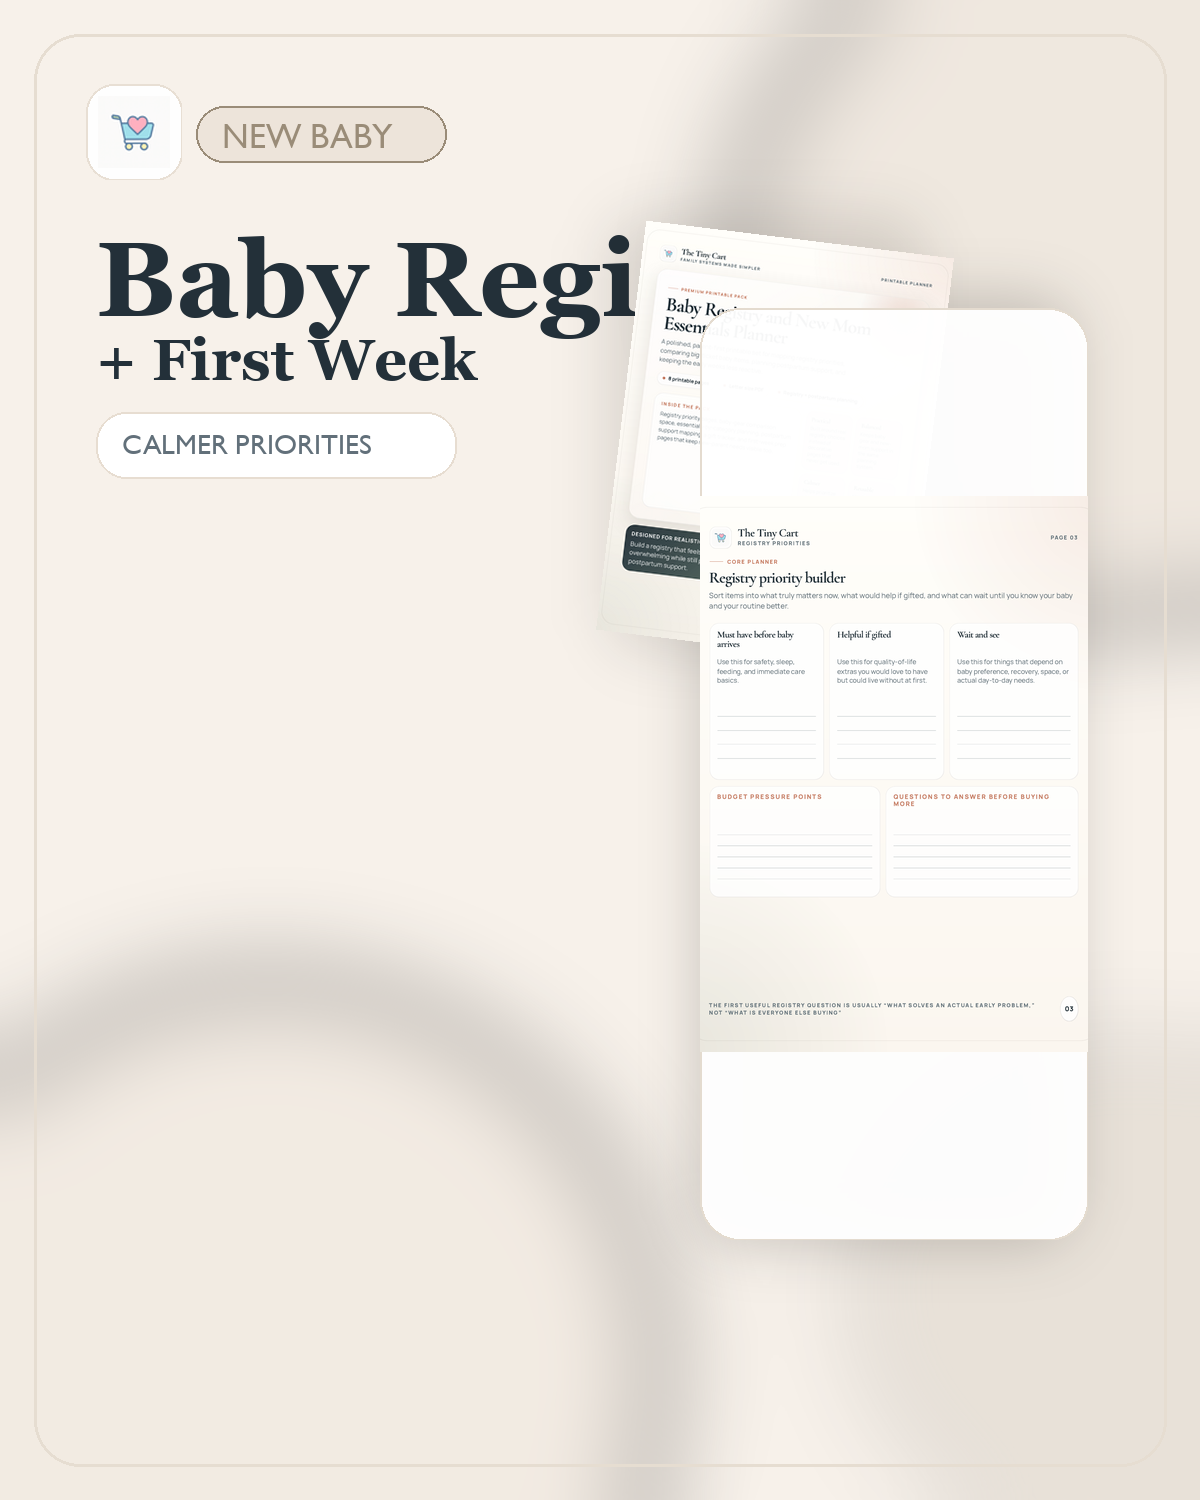
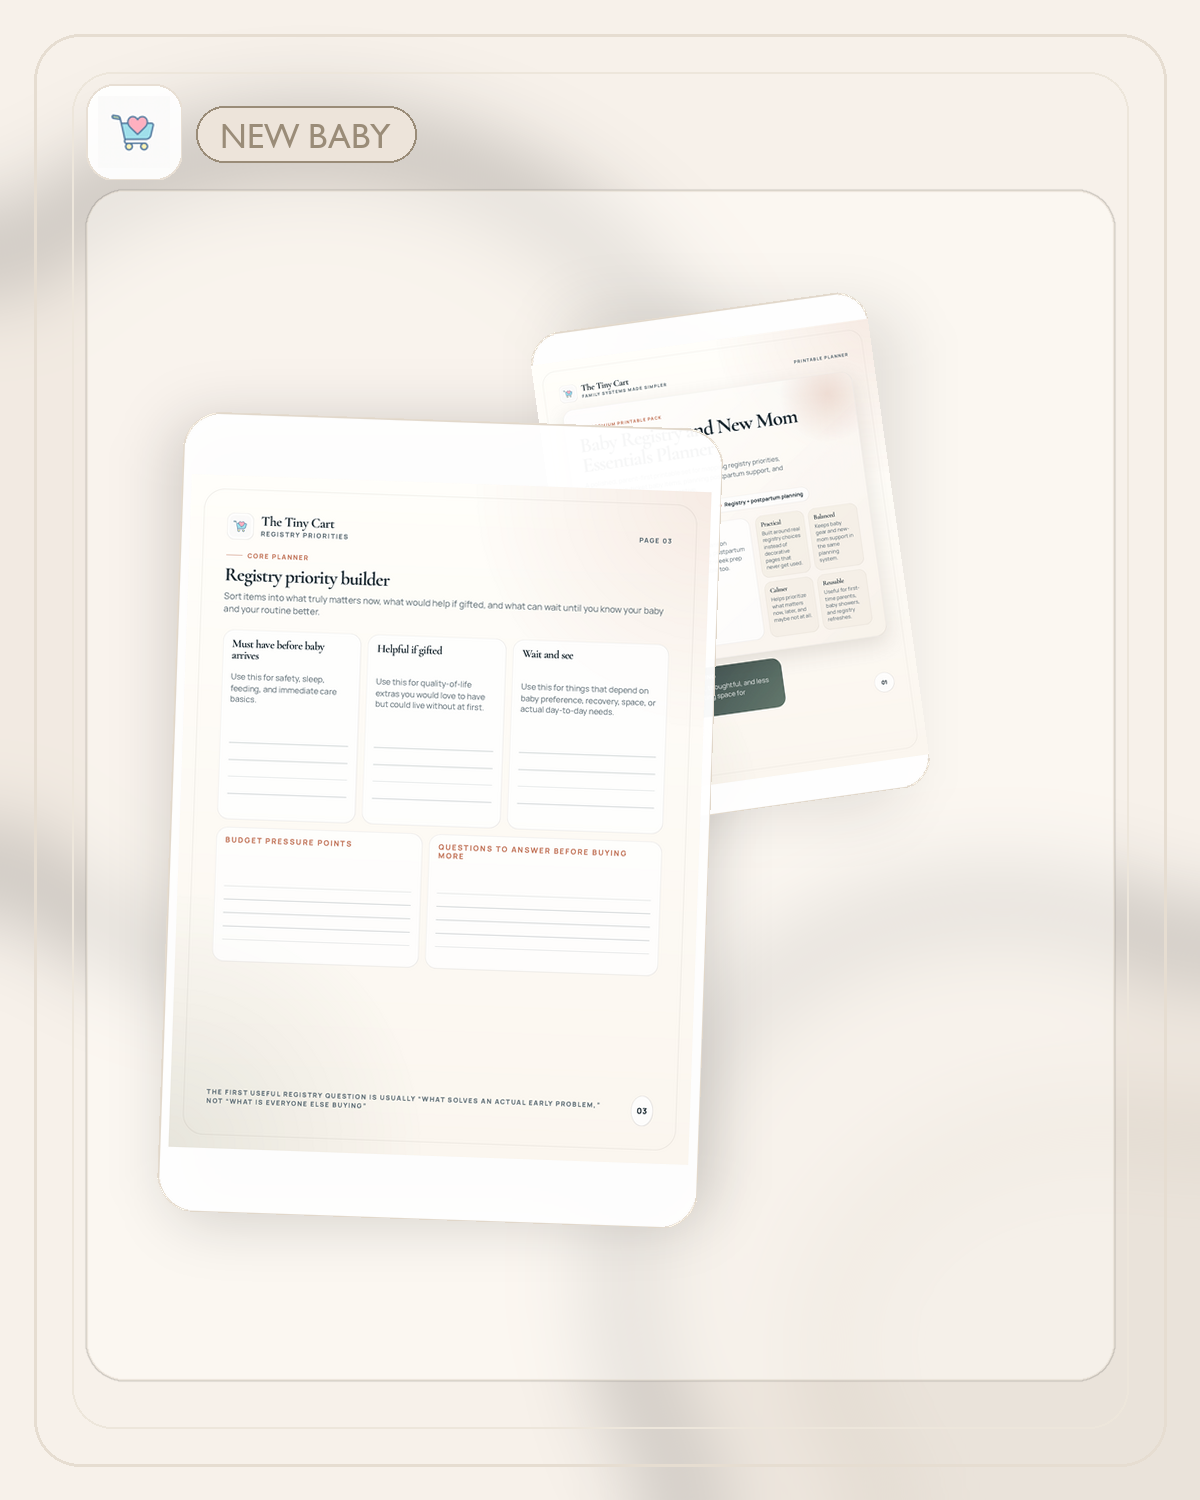
Refine printable card thumbnails

diff --git a/scripts/build_printable_thumbnails.py b/scripts/build_printable_thumbnails.py
@@ -18,58 +18,53 @@ SIZE = (1200, 1500)
 PRODUCTS = [
     {
         "slug": "family-meal-planner",
-        "category": "MEAL PLANNING",
-        "title": ["Family Meals", "& Lunches"],
-        "subtitle": "calm weekly system",
+        "label": "MEAL PLANNER",
         "accent": "#cb7e62",
         "accent_soft": "#f0d8d2",
         "glow": "#dccfc3",
         "preview_main": "preview-weekly-planner.png",
         "preview_back": "preview-overview.png",
+        "layout": "right",
     },
     {
         "slug": "kids-routine-chart",
-        "category": "ROUTINES",
-        "title": ["Kids Routines", "& Responsibilities"],
-        "subtitle": "clearer daily flow",
+        "label": "ROUTINES",
         "accent": "#71816d",
         "accent_soft": "#dce5da",
         "glow": "#d8ddd2",
         "preview_main": "preview-morning-flow.png",
         "preview_back": "preview-overview.png",
+        "layout": "left",
     },
     {
         "slug": "playroom-organization-labels",
-        "category": "ORGANIZATION",
-        "title": ["Playroom Labels", "+ Rotation"],
-        "subtitle": "simpler cleanup",
+        "label": "ORGANIZE",
         "accent": "#c6a06a",
         "accent_soft": "#efe0c8",
         "glow": "#e5dbc8",
         "preview_main": "preview-category-grid.png",
         "preview_back": "preview-overview.png",
+        "layout": "center",
     },
     {
         "slug": "lunchbox-notes",
-        "category": "LUNCHBOX NOTES",
-        "title": ["Lunchbox Notes", "+ Joke Cards"],
-        "subtitle": "warmer school lunches",
+        "label": "NOTES",
         "accent": "#c77063",
         "accent_soft": "#f4ddd8",
         "glow": "#e6d7d0",
         "preview_main": "preview-encouragement-notes.png",
         "preview_back": "preview-overview.png",
+        "layout": "right",
     },
     {
         "slug": "baby-registry-planner",
-        "category": "NEW BABY",
-        "title": ["Baby Registry", "+ First Week"],
-        "subtitle": "calmer priorities",
+        "label": "NEW BABY",
         "accent": "#9a8c78",
         "accent_soft": "#ede4da",
         "glow": "#e6ddd3",
         "preview_main": "preview-priorities.png",
         "preview_back": "preview-overview.png",
+        "layout": "left",
     },
 ]
 
@@ -118,27 +113,33 @@ def draw_preview_card(canvas: Image.Image, preview: Image.Image, box: tuple[int,
 def build_thumb(config: dict[str, str]) -> None:
     folder = PRINTABLES / config["slug"]
     thumb_path = folder / "thumb.png"
-    main_preview = fit_preview(folder / config["preview_main"], (430, 560))
-    back_preview = fit_preview(folder / config["preview_back"], (320, 430))
+    main_preview = fit_preview(folder / config["preview_main"], (520, 770))
+    back_preview = fit_preview(folder / config["preview_back"], (340, 500))
 
     canvas = Image.new("RGBA", SIZE, hex_to_rgba("#f7f1ea"))
     glow = Image.new("RGBA", SIZE, (0, 0, 0, 0))
     gdraw = ImageDraw.Draw(glow)
-    gdraw.ellipse((-120, 980, 660, 1760), fill=hex_to_rgba(config["accent_soft"], 120))
-    gdraw.ellipse((730, -80, 1460, 620), fill=hex_to_rgba(config["glow"], 120))
-    gdraw.ellipse((860, 1050, 1380, 1530), fill=hex_to_rgba(config["accent"], 40))
+    if config["layout"] == "left":
+        gdraw.ellipse((-120, 140, 740, 980), fill=hex_to_rgba(config["accent_soft"], 135))
+        gdraw.ellipse((620, 900, 1380, 1650), fill=hex_to_rgba(config["glow"], 120))
+    elif config["layout"] == "right":
+        gdraw.ellipse((500, 120, 1360, 980), fill=hex_to_rgba(config["accent_soft"], 135))
+        gdraw.ellipse((-80, 960, 760, 1650), fill=hex_to_rgba(config["glow"], 120))
+    else:
+        gdraw.ellipse((-120, 980, 660, 1760), fill=hex_to_rgba(config["accent_soft"], 120))
+        gdraw.ellipse((730, -80, 1460, 620), fill=hex_to_rgba(config["glow"], 120))
+    gdraw.ellipse((820, 1120, 1380, 1570), fill=hex_to_rgba(config["accent"], 35))
     glow = glow.filter(ImageFilter.GaussianBlur(48))
     canvas = Image.alpha_composite(canvas, glow)
 
     frame = Image.new("RGBA", SIZE, (0, 0, 0, 0))
     fdraw = ImageDraw.Draw(frame)
     fdraw.rounded_rectangle((34, 34, SIZE[0] - 34, SIZE[1] - 34), radius=46, outline=(230, 221, 209, 255), width=3)
+    fdraw.rounded_rectangle((72, 72, SIZE[0] - 72, SIZE[1] - 72), radius=40, outline=(237, 230, 219, 255), width=2)
     canvas = Image.alpha_composite(canvas, frame)
 
-    serif_big = load_font(FONT_SERIF, 106)
-    serif_small = load_font(FONT_SERIF, 58)
     sans_label = load_font(FONT_SANS, 34)
-    sans_chip = load_font(FONT_SANS, 28)
+    sans_chip = load_font(FONT_SANS, 26)
 
     draw = ImageDraw.Draw(canvas)
 
@@ -149,35 +150,48 @@ def build_thumb(config: dict[str, str]) -> None:
     logo_back.alpha_composite(logo, ((96 - 72) // 2, (96 - 72) // 2))
     canvas.alpha_composite(logo_back, (86, 84))
 
-    chip_w = 250
+    chip_w = 220
     chip_h = 56
     chip_x = 196
     chip_y = 106
     draw.rounded_rectangle((chip_x, chip_y, chip_x + chip_w, chip_y + chip_h), radius=28, fill=hex_to_rgba(config["accent_soft"]), outline=hex_to_rgba(config["accent"], 45), width=2)
-    draw.text((chip_x + 26, chip_y + 10), config["category"], fill=hex_to_rgba(config["accent"]), font=sans_label)
+    draw.text((chip_x + 24, chip_y + 10), config["label"], fill=hex_to_rgba(config["accent"]), font=sans_label)
 
-    y = 218
-    for idx, line in enumerate(config["title"]):
-        font = serif_big if idx == 0 else serif_small
-        draw.text((96, y), line, fill=hex_to_rgba("#233039"), font=font)
-        y += 108 if idx == 0 else 78
+    mat_x0, mat_y0, mat_x1, mat_y1 = 86, 190, 1114, 1380
+    mat = Image.new("RGBA", SIZE, (0, 0, 0, 0))
+    mdraw = ImageDraw.Draw(mat)
+    mdraw.rounded_rectangle((mat_x0, mat_y0, mat_x1, mat_y1), radius=38, fill=(255, 252, 247, 130), outline=(235, 227, 217, 220), width=2)
+    mat = mat.filter(ImageFilter.GaussianBlur(0.5))
+    canvas = Image.alpha_composite(canvas, mat)
 
-    sub_w = 360
-    sub_h = 66
-    draw.rounded_rectangle((96, y + 8, 96 + sub_w, y + 8 + sub_h), radius=30, fill=(255, 255, 255, 220), outline=(231, 221, 209, 255), width=2)
-    draw.text((122, y + 24), config["subtitle"].upper(), fill=hex_to_rgba("#62707a"), font=sans_chip)
+    layout = config["layout"]
+    if layout == "left":
+        back_box = (560, 310, 900, 810)
+        main_box = (170, 420, 710, 1220)
+        main_rotate = -2
+        back_rotate = 8
+    elif layout == "right":
+        back_box = (290, 290, 630, 790)
+        main_box = (520, 410, 1060, 1210)
+        main_rotate = 2
+        back_rotate = -8
+    else:
+        back_box = (220, 300, 560, 800)
+        main_box = (360, 380, 900, 1180)
+        main_rotate = 0
+        back_rotate = -6
 
-    card_area = (630, 208, 1090, 1248)
-    canvas = add_shadow(canvas, (700, 300, 1070, 1240), radius=40, opacity=55)
-    canvas = add_shadow(canvas, (610, 218, 920, 650), radius=36, opacity=35)
-    draw_preview_card(canvas, back_preview, (620, 238, 930, 650), radius=34, rotate=-7)
-    draw_preview_card(canvas, main_preview, (700, 308, 1088, 1240), radius=40)
+    canvas = add_shadow(canvas, (back_box[0], back_box[1], back_box[2], back_box[3]), radius=34, opacity=28)
+    canvas = add_shadow(canvas, (main_box[0], main_box[1], main_box[2], main_box[3]), radius=38, opacity=44)
+    draw_preview_card(canvas, back_preview, back_box, radius=32, rotate=back_rotate)
+    draw_preview_card(canvas, main_preview, main_box, radius=38, rotate=main_rotate)
 
-    footer_y = 1328
-    footer_w = 318
-    footer_h = 74
-    draw.rounded_rectangle((96, footer_y, 96 + footer_w, footer_y + footer_h), radius=34, fill=hex_to_rgba(config["accent"]), outline=None)
-    draw.text((126, footer_y + 20), "8 PAGES  •  DIGITAL PDF", fill=(255, 255, 255, 245), font=sans_chip)
+    footer_y = 1308
+    footer_w = 168
+    footer_h = 62
+    footer_x = SIZE[0] - 86 - footer_w
+    draw.rounded_rectangle((footer_x, footer_y, footer_x + footer_w, footer_y + footer_h), radius=28, fill=(255, 255, 255, 220), outline=(231, 221, 209, 255), width=2)
+    draw.text((footer_x + 28, footer_y + 18), "DIGITAL PDF", fill=hex_to_rgba("#5b6972"), font=sans_chip)
 
     thumb_path.parent.mkdir(parents=True, exist_ok=True)
     canvas.convert("RGB").save(thumb_path, quality=95)
